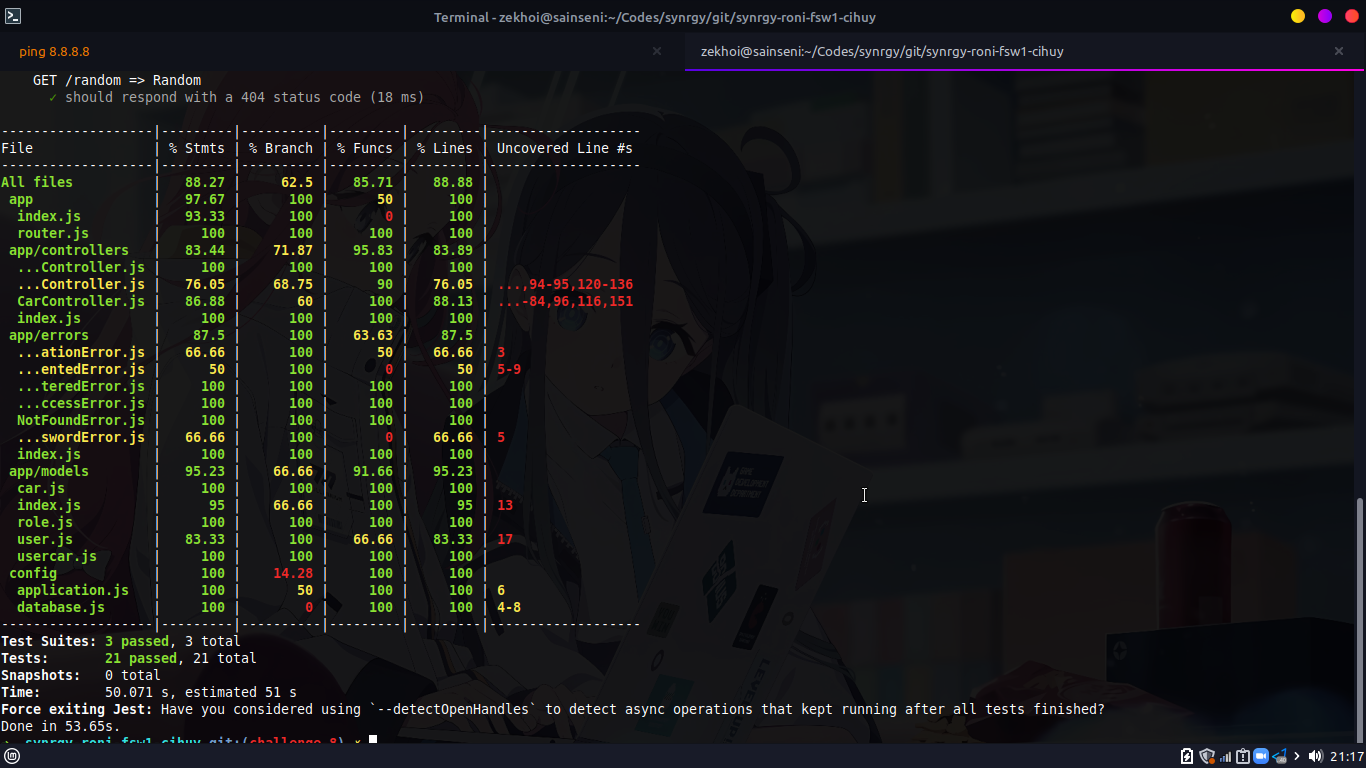
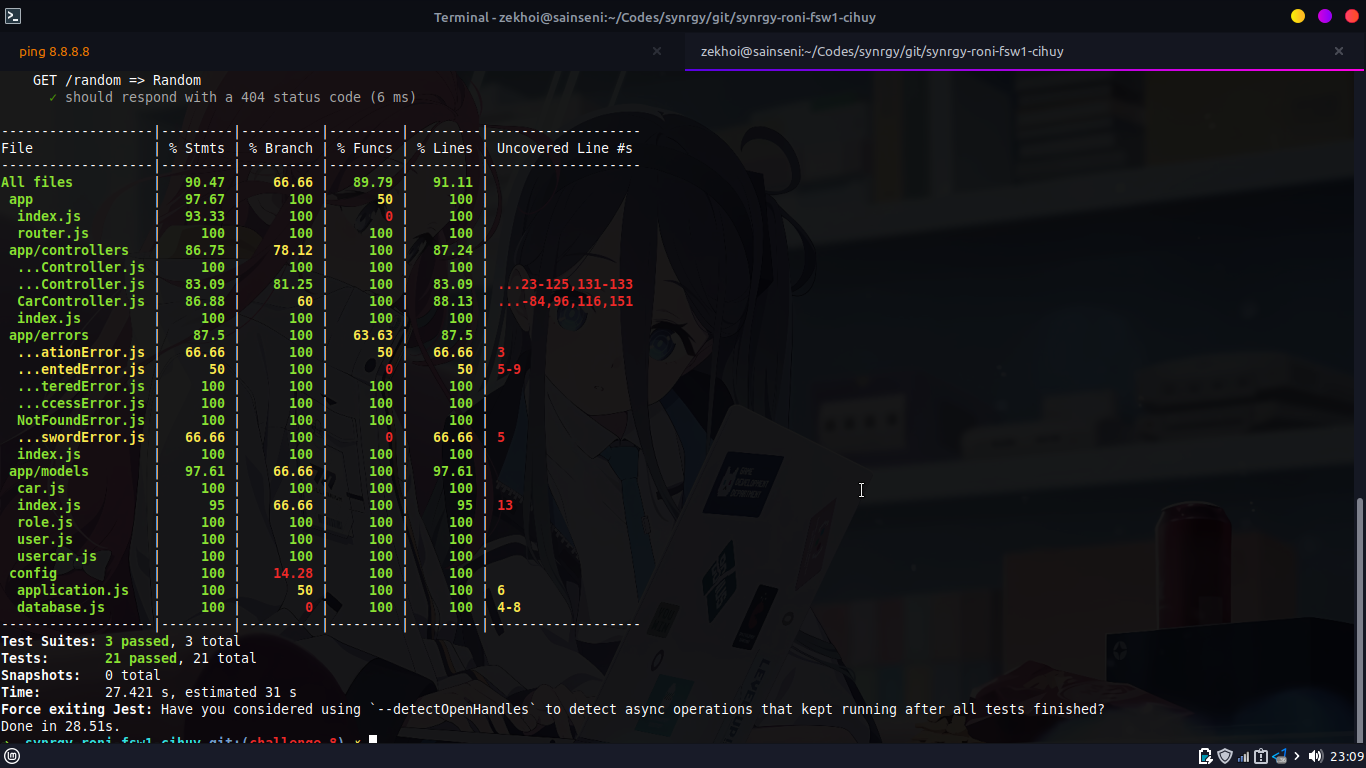
typo

diff --git a/tests/api/cars.test.js b/tests/api/cars.test.js
@@ -81,7 +81,7 @@ describe("Test API Cars Endpoint", () => {
       const car = await Car.create(mockCar);
       await request(app).delete(`/v1/cars/${car.id}`).expect(401);
     });
-    it("should respond with a 200 status code", async () => {
+    it("should respond with a 204 status code", async () => {
       const car = await Car.create(mockCar);
       await request(app)
         .delete(`/v1/cars/${car.id}`)
@@ -142,7 +142,7 @@ describe("Test API Cars Endpoint", () => {
         .set("Authorization", `Bearer ${mockAdmin}`)
         .expect(401);
     });
-    it("should respond with a 200 status code", async () => {
+    it("should respond with a 201 status code", async () => {
       const car = await Car.create(mockCar);
       await request(app)
         .post(`/v1/cars/${car.id}/rent`)

diff --git a/tests/api/auth.test.js b/tests/api/auth.test.js
@@ -67,11 +67,19 @@ describe("Test API Auth Endpoint", () => {
           email: "fikri@binar.co.id",
         },
       });
-      const token = AuthC.createTokenFromUser(user, role);
+      const token = AuthC.createTokenFromUser(
+        {
+          id: user.id,
+          name: user.name,
+          email: user.email,
+          image: user.image,
+        },
+        role
+      );
       await request(app)
-        .post("/v1/auth/whoami")
+        .get("/v1/auth/whoami")
         .set("Authorization", `Bearer ${token}`)
-        .expect(404);
+        .expect(200);
     });
   });
 });
